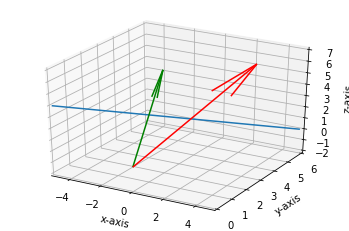
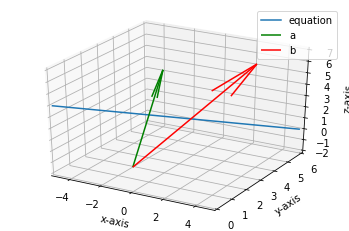
matrix theory assignment2 modified figure

Changed region(s): [[0.745, 0.1212, 0.9742, 0.2727], [0.745, 0.0303, 0.9742, 0.1212]]

diff --git a/assignment2/assignment2.tex b/assignment2/assignment2.tex
@@ -282,6 +282,11 @@ So from parameteric form of equation, equation of line is
 \begin{equation}
     r\;=\;\myvec{-2\\4\\5} + \lambda \myvec{3\\5\\6}
 \end{equation}
-\includegraphics{figure}
+\begin{figure}[h]
+    \centering
+    \includegraphics[width=\columnwidth]{fig/figure.png}
+    \caption{Equation of line passing through a and parallel to b}
+    \label{fig:}
+\end{figure}
 \end{document}
 
